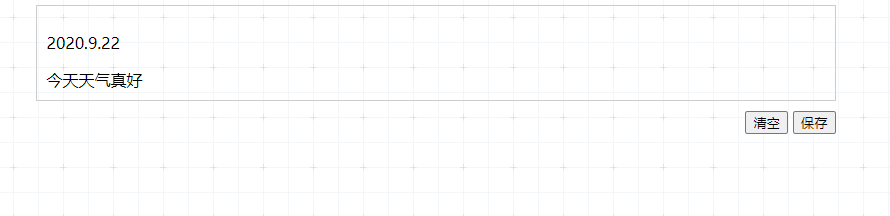
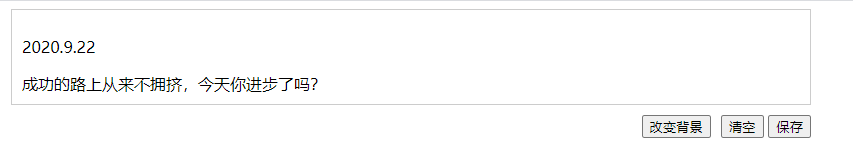
更新web components

diff --git a/web-components/demo/index.html b/web-components/demo/index.html
@@ -1,0 +1,121 @@
+<!DOCTYPE html>
+<html lang="en">
+  <head>
+    <meta charset="UTF-8" />
+    <title>Note Book</title>
+  </head>
+  <body>
+  <style>
+    .change,.read{
+      float: right;
+      margin-top: 10px;
+      margin-right: 10px;
+    }
+  </style>
+    <note-book date="2020.9.22" content="成功的路上从来不拥挤，今天你进步了吗？" background="#ccc"></note-book>
+    <template id="noteBookTemplate">
+      <style>
+        .button-wrapper {
+          float: right;
+          margin-top: 10px;
+        }
+        .note {
+          border: 1px solid #ccc;
+          padding: 10px;
+        }
+        .wrapper {
+          width:800px;
+          margin: 0 auto;
+        }
+      </style>
+      <div class="wrapper">
+      <div class="note">
+        <p class="date" />
+        <div class="content"></div>
+      </div>
+      <div class="button-wrapper">
+        <button class="clear">清空</button>
+        <button class="save">保存</button>
+      </div>
+      </div>
+    </template>
+    <button class="change">改变背景</button>
+    <button class="read">读取内容</button>
+    <script>
+      class NoteBook extends HTMLElement {
+        //当时一个元素被创建时（好比document.createElement）将会调用构造函数
+        constructor() {
+          super();
+
+          //自定义元素的this.attachShadow()方法开启 Shadow DOM,隐藏Web Component内部代码
+          var shadow = this.attachShadow({ mode: "open" });
+
+          var template = document.getElementById("noteBookTemplate");
+          var dom = template.content.cloneNode(true);
+
+          dom.querySelector(".date").innerText = this.getAttribute("date");
+
+          dom.querySelector(".content").innerText = this.getAttribute(
+            "content"
+          );
+
+          dom.querySelector(".wrapper").style.background = this.getAttribute(
+            "background"
+          );
+
+          dom.querySelector('.save').addEventListener('click',function(){
+            alert('保存成功')
+          })
+
+          shadow.appendChild(dom);
+          console.log('note-book元素被初始化')
+        }
+
+        //当这个元素被插入DOM树的时候将会触发这个方法，所有的属性和子元素都已经可用
+        connectedCallback() {
+          console.log("note-book元素被插入");
+        }
+
+        //当元素从DOM中移除的时候将会调用它
+        disconnectCallback() {
+          console.log("note-book元素被移除");
+        }
+
+        static get observedAttributes() {
+          return ["date", "content","background"];
+        }
+
+        //当属性改变时就会调用这个函数，前提是被改变的属性在observedAttributes数组中。
+        //这个方法调用时参数分别为被改变的属性，旧值和新值。
+        attributeChangedCallback(attr, oldVal, newVal) {
+          console.log(attr,'属性被改变','原来的值',oldVal,'现在的值',newVal)
+          switch (attr) {
+            case "background":
+              this.shadowRoot.querySelector(".wrapper").style.background = newVal
+              break;
+          }
+        }
+
+        readContent() {
+          alert( this.shadowRoot.querySelector(".content").innerText)
+        }
+      }
+
+      //注册自定义元素
+      window.customElements.define("note-book", NoteBook);
+
+      //通过外部按钮改变自定义元素里的背景颜色，会自动调用自定义元素的attributeChangedCallback方法
+      var changeBtn = document.querySelector('.change')
+      var noteBook = document.getElementsByTagName('note-book')[0]
+      changeBtn.onclick = function(){
+        noteBook.setAttribute('background', 'red')
+      }
+
+      //调用自定义组件的公共API
+      var readBtn = document.querySelector('.read')
+      readBtn.onclick = function(){
+        noteBook.readContent(); //调用读取内容方法
+      }
+    </script>
+  </body>
+</html>

diff --git a/web-components/web-components.md b/web-components/web-components.md
@@ -5,6 +5,7 @@
 > * [使用ShadowDOM](#使用ShadowDOM)
 > * [添加事件](#添加事件)
 > * [生命周期函数](#生命周期函数)
+> * [公共API](#公共API)
 
 ## 介绍
 Web Components，一种实现浏览器的原生组件方式，可以只使用HTML、CSS、JavaScript来创建可以在任何现代
@@ -37,9 +38,6 @@ Web Components API 提供了<template>标签，可以在它里面使用 HTML 定
 ```html
 <template id="noteBookTemplate">
       <style>
-        body {
-          background: url(assets/bright.png);
-        }
         .button-wrapper {
           float: right;
           margin-top: 10px;
@@ -196,5 +194,36 @@ attributeChangedCallback(attr, oldVal, newVal) {
 ```
 现在界面如下：<br>
 ![](image/page.png)
-点击改变背景按钮，可以看到记事本背景变成了红色,控制台打印出了attributeChangedCallback里被改变的属性<br>
-![](image/page2.png)
+点击改变背景按钮，可以看到记事本背景变成了红色<br>
+![](image/page2.png)<br>
+控制台打印出了attributeChangedCallback里监听到的被改变的属性<br>
+![](image/page3.png)
+
+## 公共API
+除了生命周期方法，还可以定义可以从外部调用的方法，称为自定义组件的公共API
+* 首先在自定义组件中定义一个读取记事本内容的方法：
+```js
+readContent() {
+  alert( this.shadowRoot.querySelector(".content").innerText)
+}
+```
+* 在自定义组件外部添加一个读取内容的按钮：
+```html
+ <button class="read">读取内容</button>
+```
+* 为按钮添加点击事件，调用自定义组件的readContent方法：
+```js
+//调用自定义组件的公共API
+  var readBtn = document.querySelector('.read')
+  readBtn.onclick = function(){
+    noteBook.readContent(); //调用读取内容方法
+}
+```
+在点击读取内容的按钮时，会弹出读取内容的对话框：<br>
+![](image/alert.png)<br>
+
+🌰 [点击这里查看本文完整demo](demo/index.html)
+📚 此文章系笔者原创，转载请注明来源
+🌺 参考文章：
+>* [Web Component可以取代你的前端框架吗？](https://zhuanlan.zhihu.com/p/64619005)
+>* [Web Components](https://developer.mozilla.org/zh-CN/docs/Web/Web_Components)

diff --git a/webpack/webpack5/output-file-analysis.md b/webpack/webpack5/output-file-analysis.md
@@ -375,4 +375,4 @@ function webpackJsonpCallback(data) {
 > * __webpack_require__.e方法（用来维护存放异步加载模块installedChunks和生成并插入chunk到html中）
    在webpack5中被拆成了三个方法，结构更加清晰
 
-⭐ 本文完整demo见[asyncDemo](/webpack/webpack5/demo/asyncDemo)<br>
+⭐ 本文完整demo见[asyncDemo](/webpack/webpack5/demo/asyncDemo)<br>

diff --git a/README.md b/README.md
@@ -1,6 +1,6 @@
 # Jie's Blog
 > * 持续学习，不忘初心
-> * 成功的道路从来不拥挤，今天又进步吗？
+> * 成功的道路从来不拥挤，今天你有进步吗？
 
 ## 目录
 * 函数式编程

diff --git a/redux/redux.md b/redux/redux.md
@@ -987,3 +987,4 @@ export default function createStore(
 }
 ```
 🌰 [点击这里查看本例demo](./demo/demo9)
+📚 此文章系笔者原创，转载请注明来源
